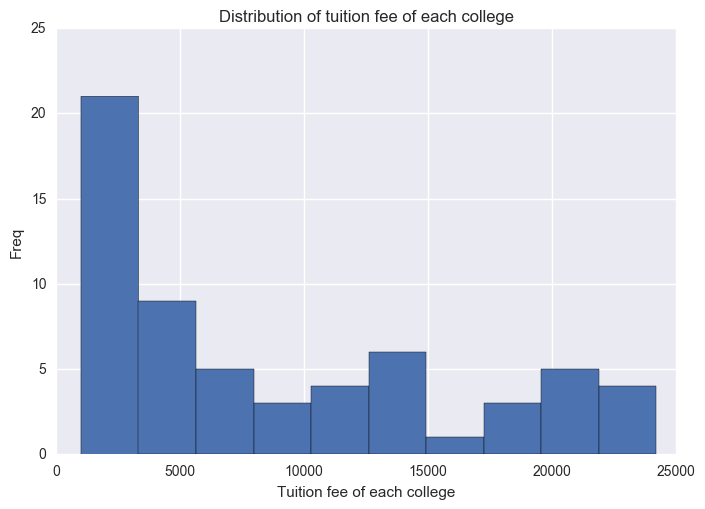
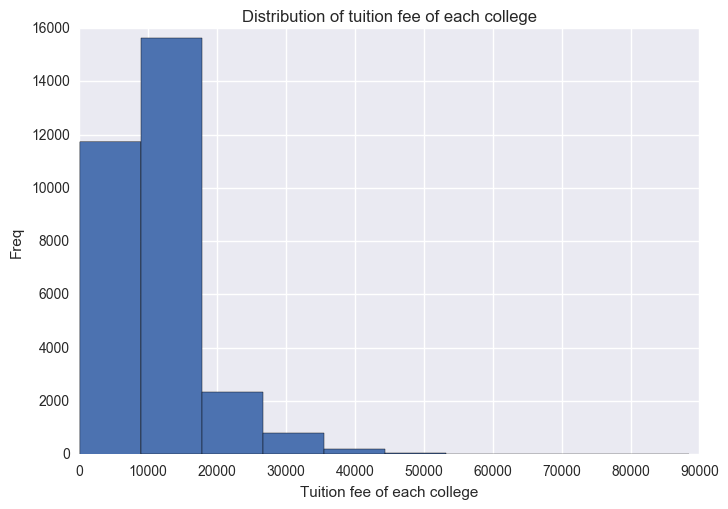
Add files via upload

diff --git a/README.md b/README.md
@@ -76,57 +76,57 @@ df_copy.head(3)
   </thead>
   <tbody>
     <tr>
-      <th>79898</th>
-      <td>100858</td>
-      <td>Auburn University Main Campus</td>
-      <td>1166.0</td>
-      <td>27.0</td>
-      <td>25.0</td>
-      <td>8.0</td>
+      <th>0</th>
+      <td>100636</td>
+      <td>COMMUNITY COLLEGE OF THE AIR FORCE</td>
       <td>NaN</td>
       <td>NaN</td>
       <td>NaN</td>
       <td>NaN</td>
-      <td>0.0</td>
-      <td>6500.0</td>
-      <td>18260.0</td>
+      <td>NaN</td>
+      <td>NaN</td>
+      <td>NaN</td>
+      <td>NaN</td>
+      <td>NaN</td>
+      <td>NaN</td>
+      <td>NaN</td>
       <td>Public</td>
       <td>AL</td>
     </tr>
     <tr>
-      <th>79914</th>
-      <td>101480</td>
-      <td>Jacksonville State University</td>
-      <td>920.0</td>
-      <td>20.0</td>
-      <td>19.0</td>
-      <td>24.0</td>
+      <th>1</th>
+      <td>100654</td>
+      <td>ALABAMA A &amp; M UNIVERSITY</td>
       <td>NaN</td>
       <td>NaN</td>
       <td>NaN</td>
       <td>NaN</td>
-      <td>0.0</td>
-      <td>4560.0</td>
-      <td>9120.0</td>
+      <td>NaN</td>
+      <td>NaN</td>
+      <td>NaN</td>
+      <td>NaN</td>
+      <td>NaN</td>
+      <td>NaN</td>
+      <td>NaN</td>
       <td>Public</td>
       <td>AL</td>
     </tr>
     <tr>
-      <th>79939</th>
-      <td>102234</td>
-      <td>Spring Hill College</td>
-      <td>1090.0</td>
-      <td>25.0</td>
-      <td>23.0</td>
-      <td>8.0</td>
+      <th>2</th>
+      <td>100663</td>
+      <td>UNIVERSITY OF ALABAMA AT BIRMINGHAM</td>
       <td>NaN</td>
       <td>NaN</td>
       <td>NaN</td>
       <td>NaN</td>
-      <td>0.0</td>
-      <td>24240.0</td>
-      <td>24240.0</td>
-      <td>Private nonprofit</td>
+      <td>NaN</td>
+      <td>NaN</td>
+      <td>NaN</td>
+      <td>NaN</td>
+      <td>NaN</td>
+      <td>NaN</td>
+      <td>NaN</td>
+      <td>Public</td>
       <td>AL</td>
     </tr>
   </tbody>
@@ -335,18 +335,18 @@ print (min_max_scaler.fit_transform(dfplt[variable_to_check]))
 ![png](output_11_0.png)
 
 
-    Variance:  0.0359181807255
-    count    1404.000000
-    mean     1087.503561
-    std       158.116770
-    min       700.000000
-    25%       973.000000
-    50%      1065.500000
-    75%      1182.000000
-    max      1534.000000
+    Variance:  0.0136769979888
+    count    18598.000000
+    mean      1052.701043
+    std        126.892749
+    min        514.000000
+    25%        970.000000
+    50%       1035.000000
+    75%       1115.000000
+    max       1599.000000
     Name: SAT_AVG, dtype: float64
-    [ 0.558753    0.26378897  0.4676259  ...,  0.45443645  0.5383693
-      0.32134293]
+    [ 0.4202765   0.47557604  0.5483871  ...,  0.44976959  0.4562212
+      0.35391705]
     
 
 From the histogram of the distribution of average SAT scores of students in college, we may conclude that if you have an overall SAT score of around 900~1200 you may be accepted to enroll in most college. However looking at the histogram, there are some university where the average SAT score of students enrolled are higher or lower than average. We will take a look on those colleges. <br><br>
@@ -400,15 +400,15 @@ print(dfplt[variable_to_check].describe())
 ![png](output_15_0.png)
 
 
-    Variance:  0.100867562962
-    count       61.000000
-    mean      8812.262295
-    std       7426.826164
-    min       1000.000000
-    25%       3000.000000
-    50%       6000.000000
-    75%      14250.000000
-    max      24192.000000
+    Variance:  0.00558676982406
+    count    30778.000000
+    mean     11576.385438
+    std       6613.518286
+    min         70.000000
+    25%       7331.000000
+    50%      10350.000000
+    75%      14603.000000
+    max      88550.000000
     Name: TUITIONFEE_PROG, dtype: float64
     
 
@@ -441,15 +441,15 @@ print(dfplt[variable_to_check].describe())
 ![png](output_17_0.png)
 
 
-    Variance:  0.026601632823
-    count    18467.000000
-    mean     15864.926897
-    std      10263.023581
-    min        150.000000
-    25%       6536.000000
-    50%      14530.000000
-    75%      23010.000000
-    max      63073.000000
+    Variance:  0.0159950644484
+    count    57984.000000
+    mean     10594.489290
+    std       8854.732166
+    min         11.000000
+    25%       3285.000000
+    50%       8505.000000
+    75%      15200.000000
+    max      70024.000000
     Name: TUITIONFEE_IN, dtype: float64
     
 
@@ -457,15 +457,15 @@ print(dfplt[variable_to_check].describe())
 ![png](output_17_2.png)
 
 
-    Variance:  0.0176559190025
-    count    18467.000000
-    mean     18939.291060
-    std       8361.156325
-    min        150.000000
-    25%      12828.000000
-    50%      17586.000000
-    75%      23915.500000
-    max      63073.000000
+    Variance:  0.013504664978
+    count    56818.000000
+    mean     12622.748178
+    std       8135.787628
+    min         15.000000
+    25%       6550.000000
+    50%      10896.500000
+    75%      16600.000000
+    max      70024.000000
     Name: TUITIONFEE_OUT, dtype: float64
     
 
@@ -490,15 +490,15 @@ print(dfplt[variable_to_check].describe())
 ![png](output_19_0.png)
 
 
-    Variance:  0.00573183790663
-    count      7094.000000
-    mean      35880.969834
-    std        8608.708987
-    min       13600.000000
-    25%       30600.000000
-    50%       35000.000000
-    75%       39600.000000
-    max      127300.000000
+    Variance:  0.00743082832795
+    count     28281.000000
+    mean      28958.236979
+    std       10913.398108
+    min        7000.000000
+    25%       21800.000000
+    50%       27300.000000
+    75%       34300.000000
+    max      133600.000000
     Name: MD_EARN_WNE_P6, dtype: float64
     
 
@@ -534,7 +534,7 @@ plt.xlabel("Admission rate of each college")
 plt.ylabel("Freq")
 plt.title("Distribution of admission of each college")
 plt.show()
-print("Rate of NaN: ", (len(df)-len(dfplt))/len(df)*100, "%")
+print("Rate of NaN: ", (len(df_copy)-len(dfplt))/len(df_copy)*100, "%")
 print("Value count:")
 print(dfplt[variable_to_check].value_counts())
 print()
@@ -546,22 +546,23 @@ print("Variance: ", np.var(min_max_scaler.fit_transform(dfplt[variable_to_check]
 ![png](output_23_0.png)
 
 
-    Rate of NaN:  98.8708463275621 %
+    Rate of NaN:  97.10422697856438 %
     Value count:
-    1.0    209
-    3.0      1
+    1.0     3609
+    10.0       1
+    3.0        1
     Name: ADM_RATE, dtype: int64
     
-    count    210.000000
-    mean       1.009524
-    std        0.138013
-    min        1.000000
-    25%        1.000000
-    50%        1.000000
-    75%        1.000000
-    max        3.000000
+    count    3611.000000
+    mean        1.003046
+    std         0.153416
+    min         1.000000
+    25%         1.000000
+    50%         1.000000
+    75%         1.000000
+    max        10.000000
     Name: ADM_RATE, dtype: float64
-    Variance:  0.00473922902494
+    Variance:  0.000290492669096
     
 
 Over 98% of data from ADM_RATE are NaN values, and the variance is also relatively low which means majority of the data are the exact same. Hence we decided to ignore this feature, as it will not be useful in our analysis. <br><br>
@@ -584,10 +585,10 @@ print(dfplt[variable_to_check].describe())
 ![png](output_25_0.png)
 
 
-    Variance:  0.0106555008313
-    count    13192.000000
-    mean        22.337553
-    std          3.509800
+    Variance:  0.0108890489553
+    count    13222.000000
+    mean        22.316669
+    std          3.548055
     min          2.000000
     25%         20.000000
     50%         22.000000
@@ -617,10 +618,10 @@ print(dfplt[variable_to_check].describe())
 ![png](output_27_0.png)
 
 
-    Variance:  0.0097038922902
-    count    13178.000000
-    mean        22.015025
-    std          3.250898
+    Variance:  0.00994217229236
+    count    13207.000000
+    mean        21.994018
+    std          3.290569
     min          2.000000
     25%         20.000000
     50%         22.000000
@@ -651,10 +652,10 @@ print(dfplt[variable_to_check].describe())
 ![png](output_29_0.png)
 
 
-    Variance:  0.000807184101564
-    count    1405.000000
-    mean       10.476868
-    std        14.949499
+    Variance:  0.000807488465614
+    count    1407.000000
+    mean       10.491116
+    std        14.952310
     min         4.000000
     25%         7.000000
     50%         8.000000
@@ -668,7 +669,7 @@ Each ACT test is scored out of 36 points, with the lowest possible score of 1. T
 
 ```python
 #Removing the outlier
-df_copy = df_copy[(df_copy["ACTWRMID"] > 0) & (df_copy["ACTWRMID"] <= 36)]
+df_copy = df_copy[df_copy["ACTWRMID"] != 530]
 ```
 
 After cleaning the ACT data, we want to see the top 10 institute with student of highest ACT score.
@@ -732,7 +733,7 @@ From these three barplots of the top 10 institute with highest ACT scores in wri
 
 ```python
 variable_to_check = "CONTROL"
-dfplt = df.copy()
+dfplt = df_copy.copy()
 
 sns.barplot( dfplt[variable_to_check].value_counts().index, dfplt[variable_to_check].value_counts() )
 plt.ylabel("Count")
@@ -745,9 +746,9 @@ print(dfplt[variable_to_check].value_counts())
 ![png](output_37_0.png)
 
 
-    Private nonprofit     11615
-    Public                 6831
-    Private for-profit      152
+    Private for-profit    51531
+    Public                37943
+    Private nonprofit     35201
     Name: CONTROL, dtype: int64
     
 
@@ -838,8 +839,8 @@ inout.groupby('CONTROL').mean()
     </tr>
     <tr>
       <th>Private nonprofit</th>
-      <td>17554.040965</td>
-      <td>17580.530117</td>
+      <td>17553.688145</td>
+      <td>17580.178636</td>
     </tr>
     <tr>
       <th>Public</th>
@@ -858,7 +859,8 @@ After analysis for all of the institution, we further our analysis to calculate 
 ```python
 asd = df_copy.copy()
 asd = asd[asd['UNEMP_RATE']>0]
-asd = asd[['INSTNM','STABBR','UNEMP_RATE',]]
+asd = asd[['INSTNM','STABBR','UNEMP_RATE']]
+
 asd["INSTNM"] = asd["INSTNM"].str.upper()
 asd = asd.sort_values('UNEMP_RATE',ascending=False)
 asd.drop_duplicates("INSTNM", inplace=True)
@@ -922,7 +924,7 @@ _We will go deeper into it in our linear regression model_
 
 
 ```python
-dfplt = df.copy()
+dfplt = df_copy.copy()
 dfplt = dfplt[(dfplt.ACTENMID > 0)  & (dfplt.ACTMTMID > 0) & (dfplt.ACTWRMID > 0) & (dfplt['MD_EARN_WNE_P6']>0)]
 math = plt.plot(dfplt['ACTMTMID'], dfplt.MD_EARN_WNE_P6, 'ro', label = "math")
 writing = plt.plot(dfplt['ACTWRMID'], dfplt.MD_EARN_WNE_P6, 'go', label = "writing")
@@ -1148,8 +1150,8 @@ print("Train mean square error:", np.mean((y_train - lm.predict(x_train)) ** 2))
 print("Test mean square error:", np.mean((y_test - lm.predict(x_test)) ** 2))
 ```
 
-    Train mean square error: 39306101.81356143
-    Test mean square error: 41909753.20057145
+    Train mean square error: 39191974.760901645
+    Test mean square error: 42488041.97791104
     
 
 We try to see the mean square error for both train and test set.
